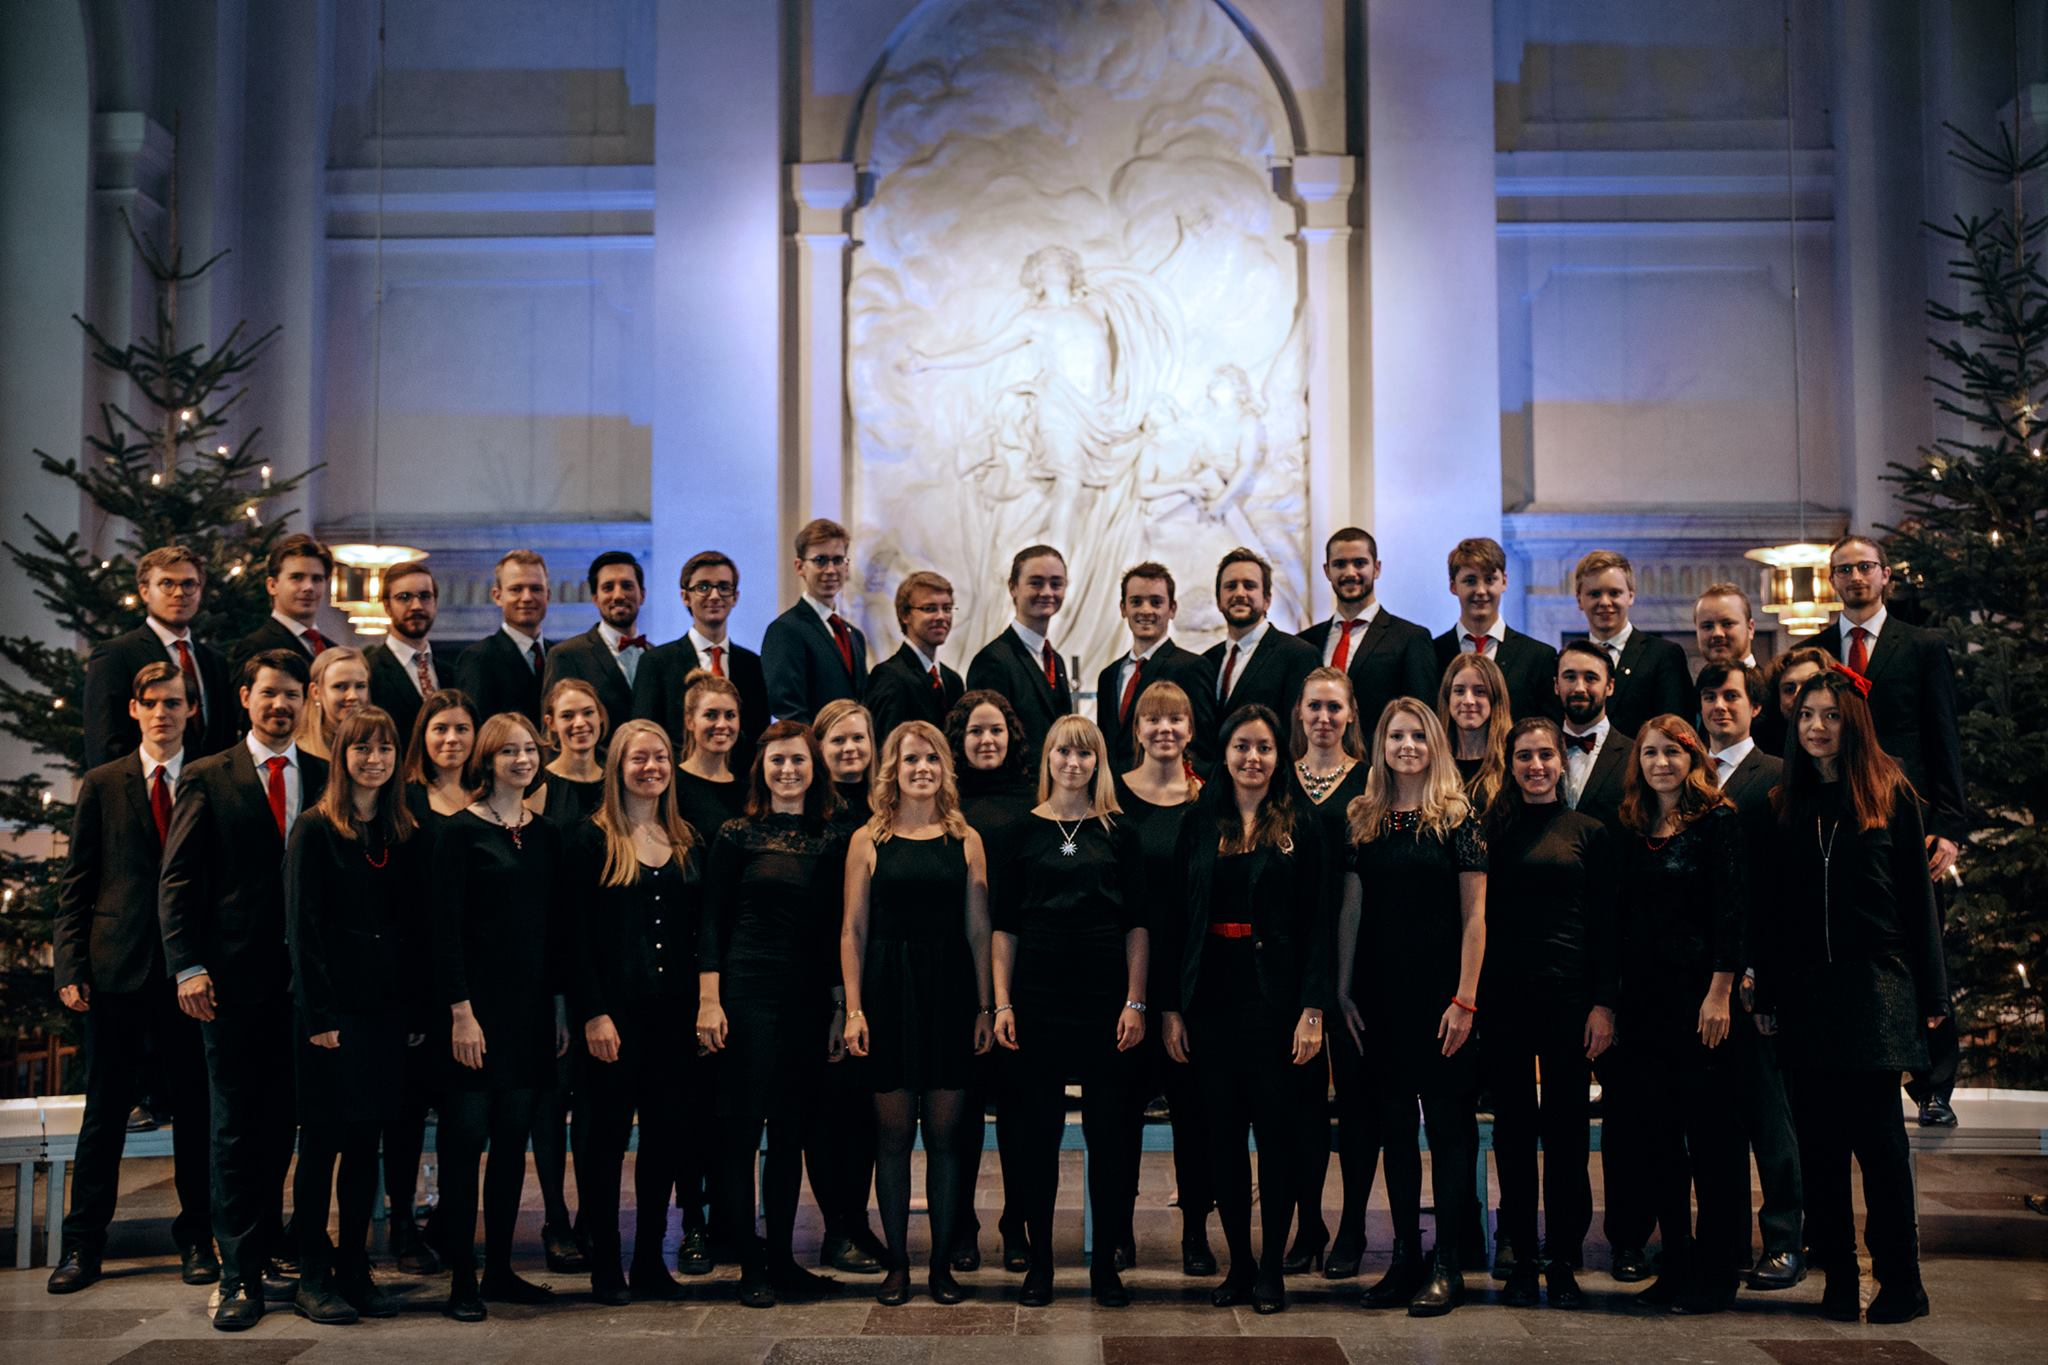
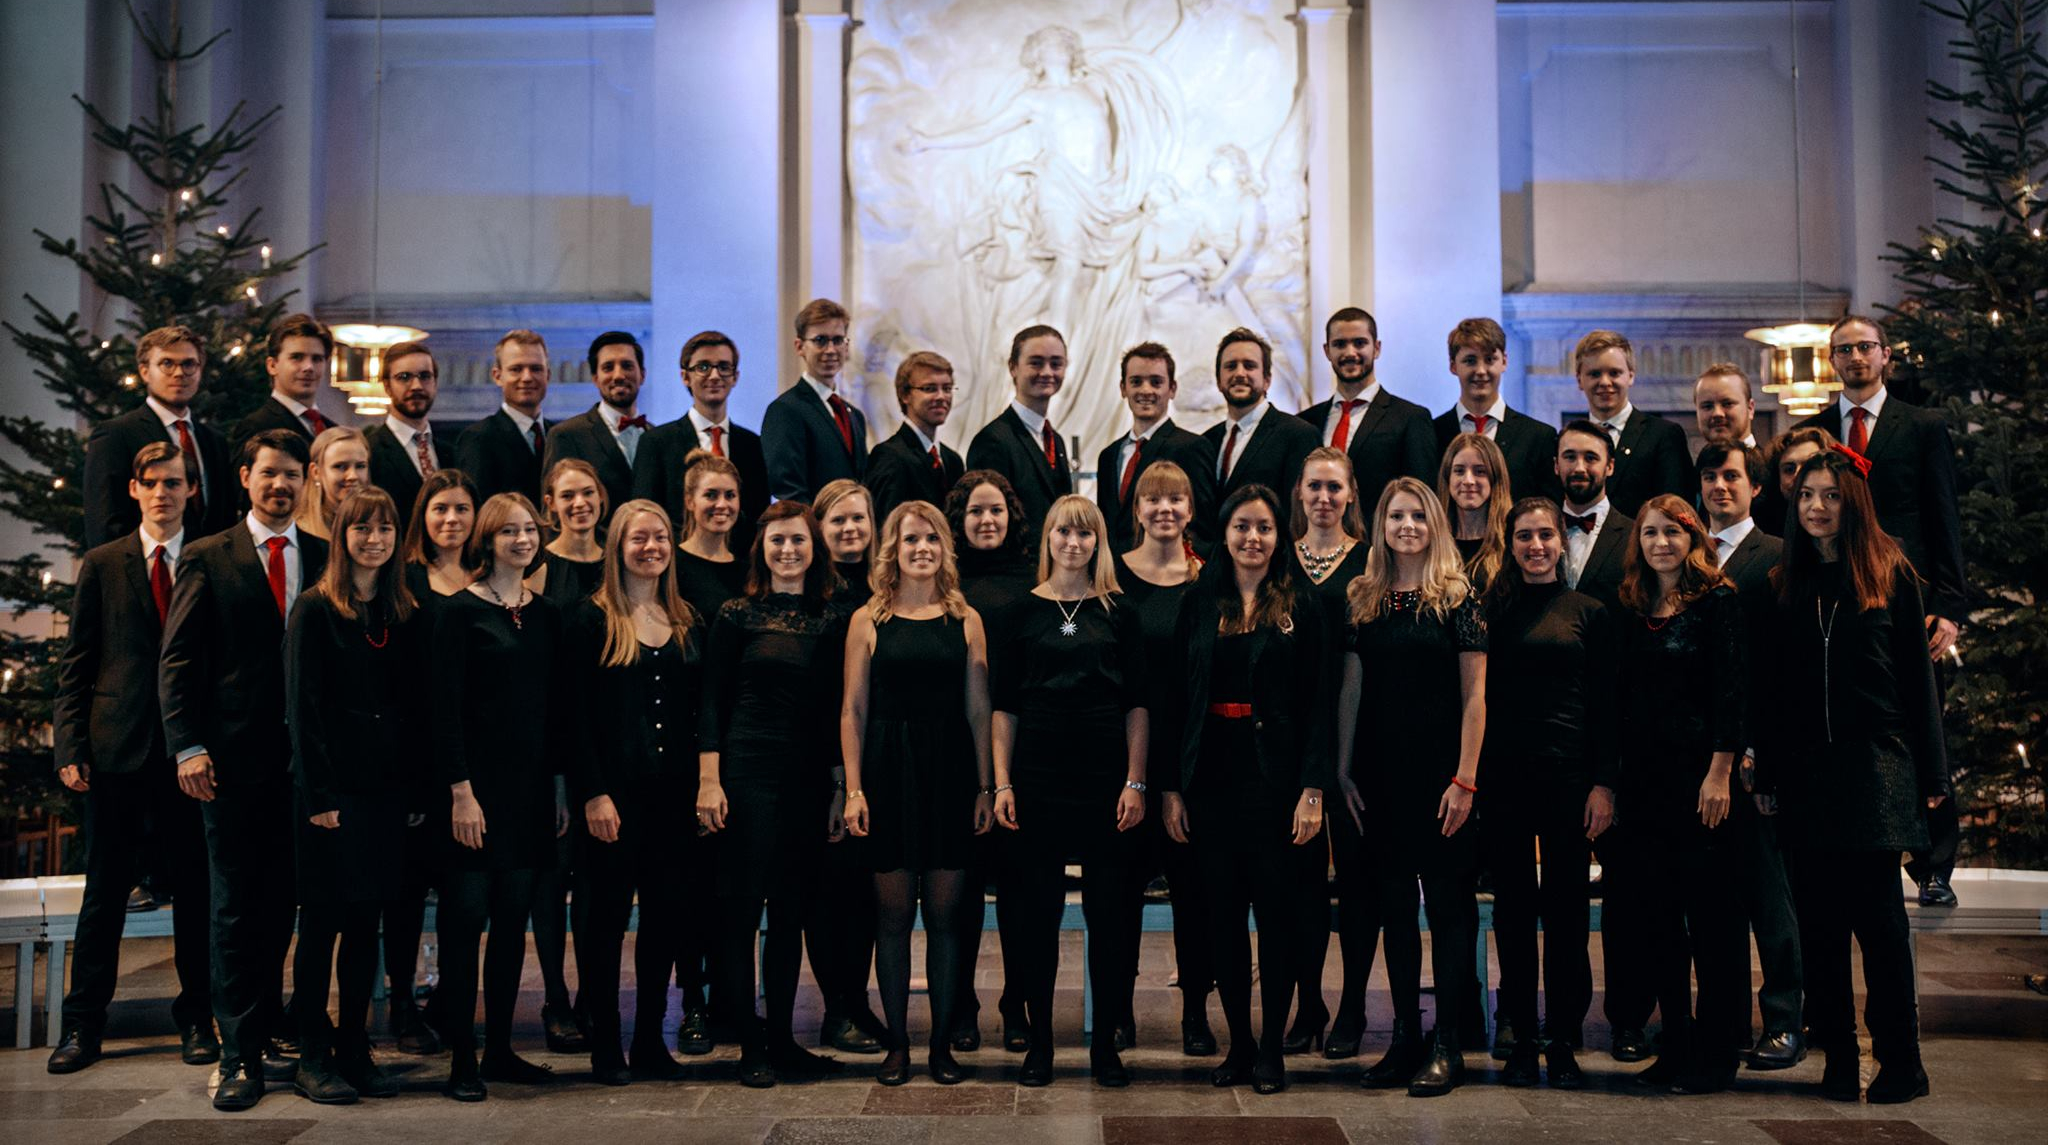
smaller cover image, small fixes

diff --git a/app/templates/blog/overview.html b/app/templates/blog/overview.html
@@ -5,7 +5,7 @@
 {% set title = "I takt med tiden" %}
 
 {% block body %}
-<img src="static/images/ktk.jpg">
+<img src="/static/images/ktk.jpg">
 <section class="overview">
   {% for post in pagination %}
   {% if post is event %}

diff --git a/app/static/css/style.css b/app/static/css/style.css
@@ -77,7 +77,7 @@ article header {
 
 .pageheader {
     text-align: center;
-    margin-bottom: 40px;
+    margin-bottom: 30px;
     max-width: 36em;
 }
 
